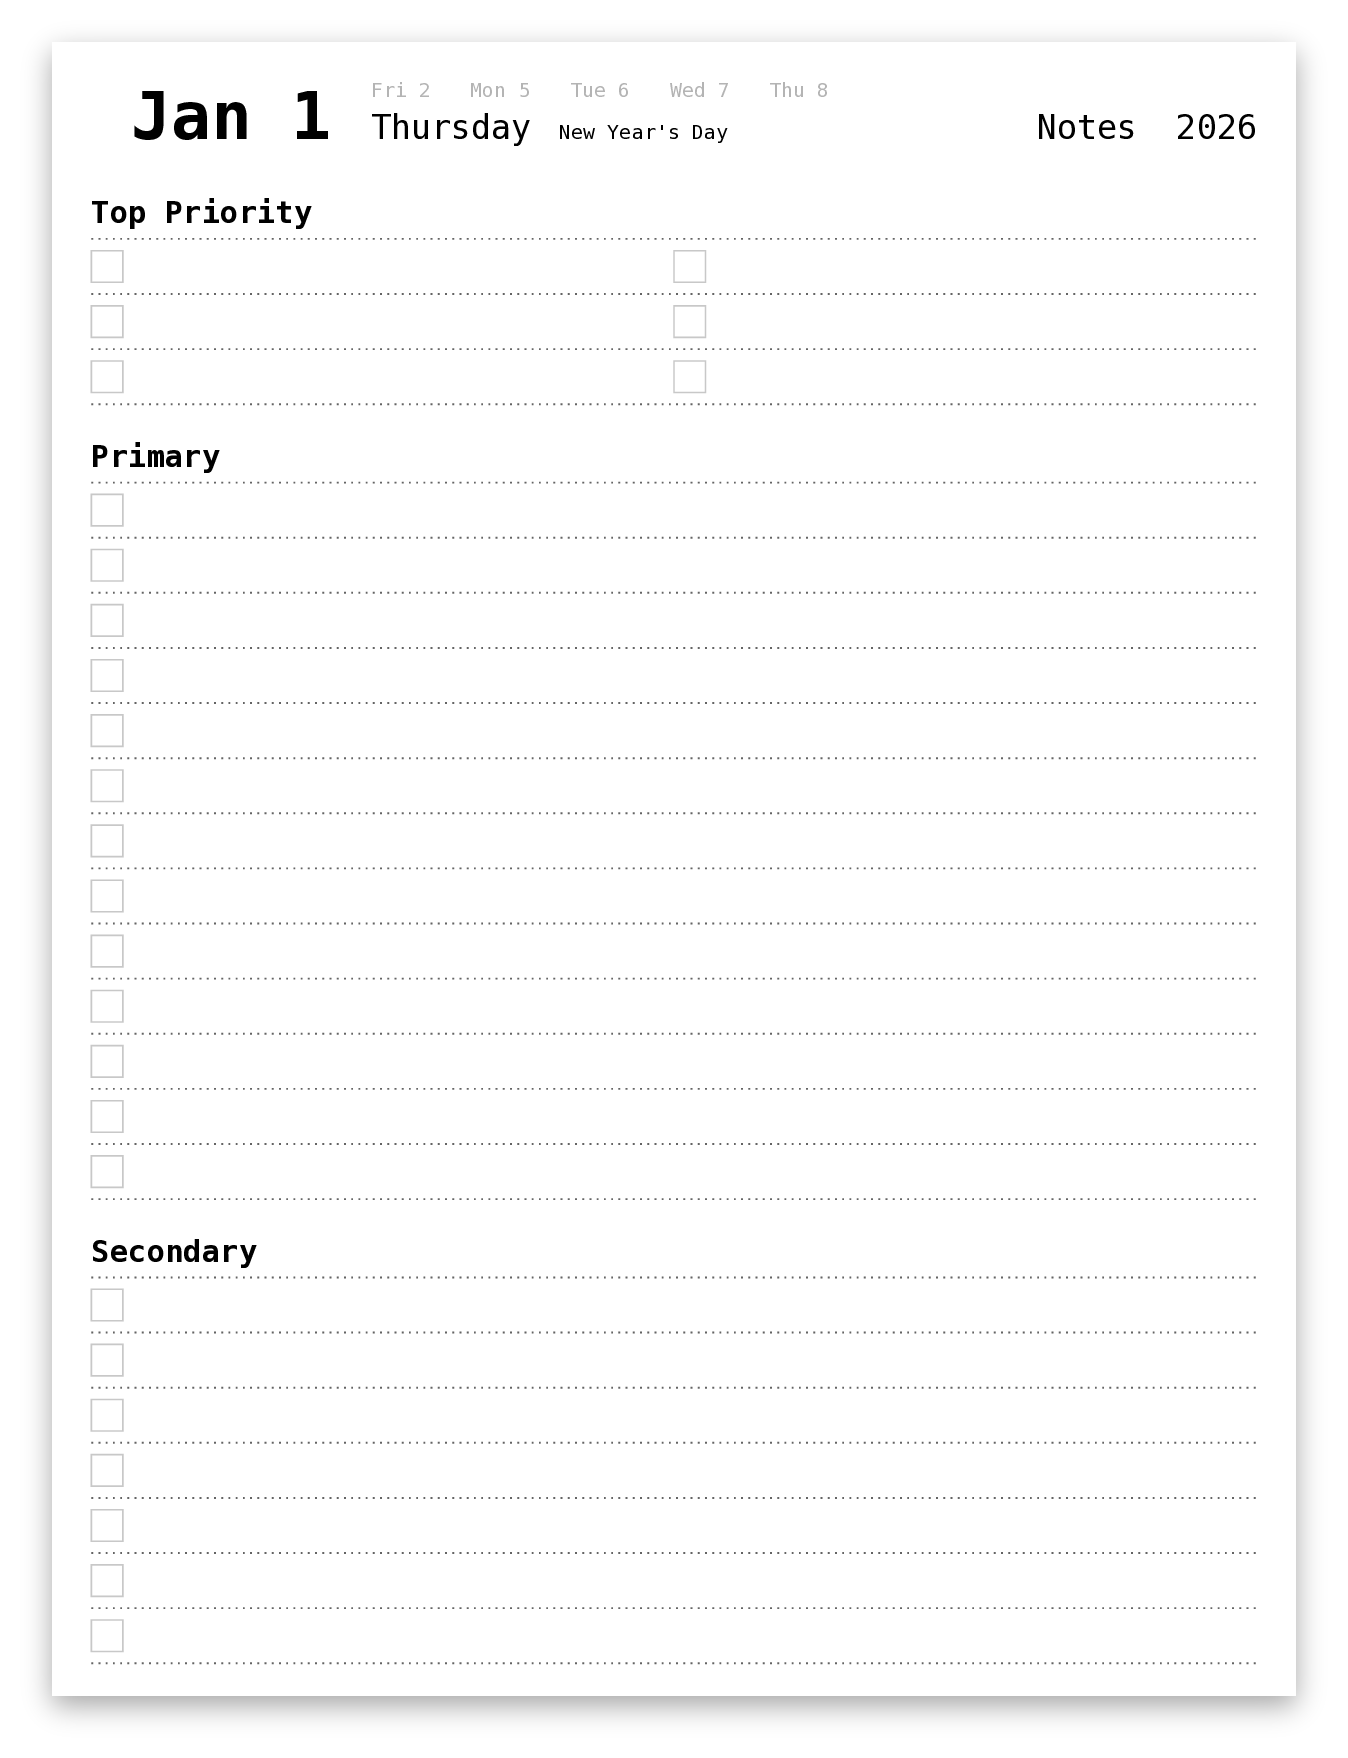
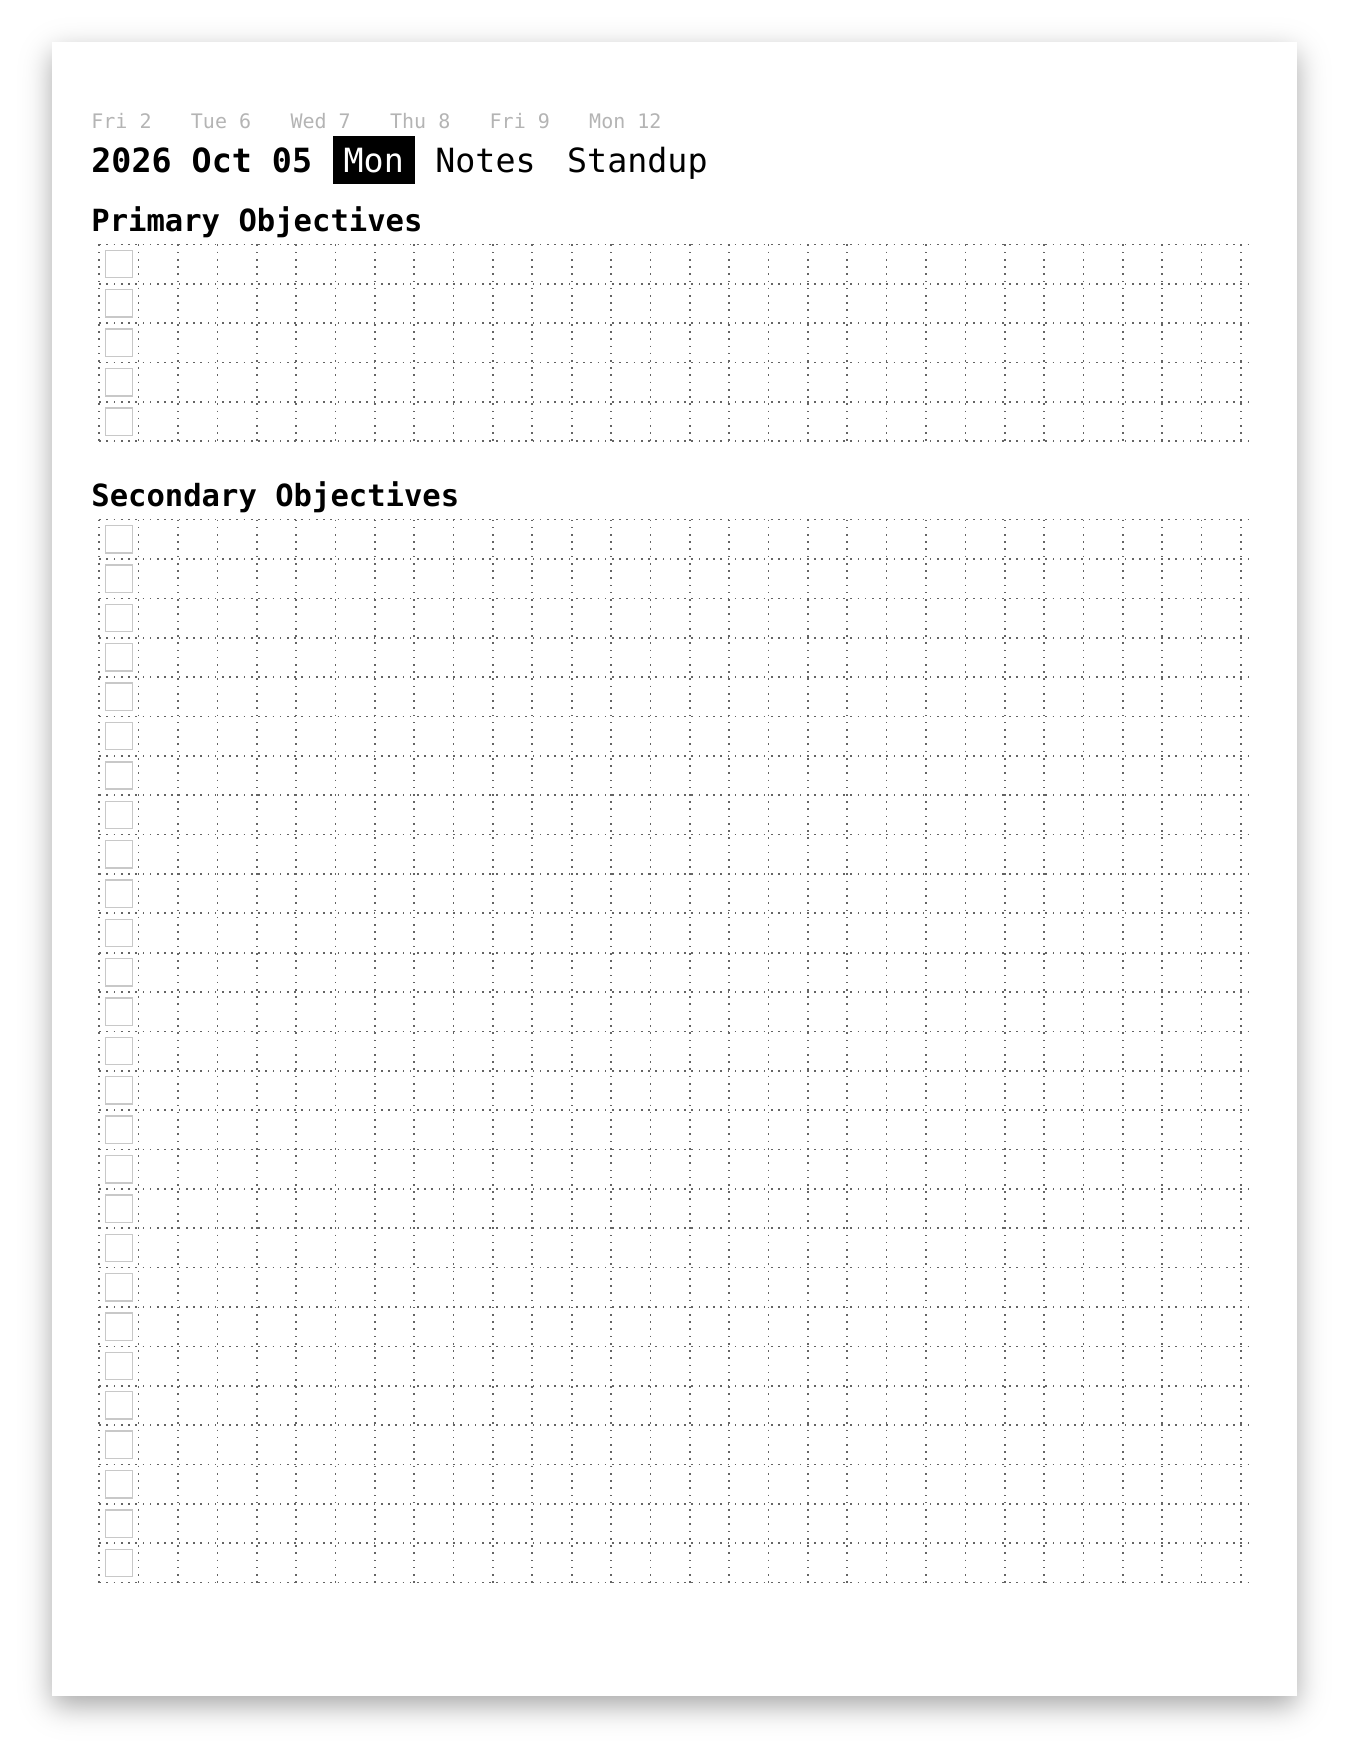
feat(planner): match grid sizes and refresh page previews
Use shared 5mm cells, five Primary rows and 27 Secondary rows, and smaller centered checkboxes. Refresh Day and Notes previews, add a Standup preview, and document the configurable layout.

Validation: just check passes, including 26 migration tests. Rendered previews inspected; negative controls confirm grid-size and checkbox regressions fail.

diff --git a/README.md b/README.md
@@ -21,18 +21,24 @@ Pages are grouped to make day-to-day navigation easy: all Daily Planner pages fo
 ### 2. Daily Planner Pages
 Structured for engineering workflows:
 
-- Primary Objectives: A compact grid for the day's main objectives
-- Secondary Objectives: A larger grid for additional objectives
+- Primary Objectives: Five grid rows for the day's main objectives
+- Secondary Objectives: Twenty-seven grid rows for additional objectives
 
-Each page includes:
-- Date and weekday
-- Navigation links to the same date's other page types and the annual calendar
-- Configurable line spacing for different writing preferences
+Both sections use 5mm square cells, matching Notes and Standup. Each row has one checkbox centered in its first cell. Checkbox size, row counts, section titles, and writing patterns are configurable.
+
+Each daily page includes:
+
+- A left-aligned `YYYY Mon DD Weekday Notes Standup` header, with a bold date and short weekday
+- A black box with white text identifying the active page type
+- A year link to the annual calendar; the month and day are plain text
+- Gray date links above the header, starting with the previous included date and preserving the current page type
+- Configurable grid size, line spacing, navigation appearance, and alignment
 
 Special dates (from CSV) can also be visually marked in the calendar view and shown beneath the weekday in the daily header.
 
 ### 3. Daily Notes Pages
-Meetings notes, etc.
+
+A full-page 5mm grid for meeting notes and other writing, beneath the shared daily navigation.
 
 ### 4. Daily Standup Pages
 
@@ -40,7 +46,7 @@ Standup pages are disabled by default. Enable them with `--standup` or set `enab
 
 When enabled, there is one standup page per included date, with a grid matching Daily Notes below the daily navigation. The Standup tab identifies the page. Links return to that date's Day and Notes pages or the annual calendar. By default, gray date links show the previous included date first, followed by upcoming dates within the planner year, and preserve the current view. Disabled Standup tabs remain visible as plain text unless `show_disabled_standup` is false.
 
-Customize line spacing, style, and color through `STANDUP` in `src/config.typ`. Set `title_show: true` to display a body heading, with configurable title text, font size, and gap. The line count adjusts to the remaining page height.
+Customize grid size, writing pattern, style, and color through `STANDUP` in `src/config.typ`. Set `title_show: true` to display a body heading, with configurable title text, font size, and gap. The writing area adjusts to the remaining page height.
 
 ## Download
 
@@ -64,12 +70,19 @@ Pre-built PDF planners are available for direct download:
 ![Calendar View / Weekends](preview/calendar-view--weekends.png)
 
 ### Day view
-![Day View](preview/day-view.png)
+
+![Day view with five Primary Objectives rows, twenty-seven Secondary Objectives rows, and centered checkboxes](preview/day-view.png)
 
 ### Day notes view
-![Day Notes View](preview/notes-view.png)
 
-### On device
+![Notes view with a 5mm grid and the Notes tab selected](preview/notes-view.png)
+
+### Standup view
+
+![Standup view with the same 5mm grid as Notes and no body heading](preview/standup-view.png)
+
+### On device (earlier layout)
+
 ![Device Calendar View](preview/photo-1.png)
 ![Device Day View](preview/photo-2.png)
 ![Device Notes View](preview/photo-3.png)
@@ -194,7 +207,7 @@ The following settings are available in `src/config.typ`:
 // Shared writing defaults for every page type and Day section.
 #let WRITING = (
   pattern: "grid",   // "lines", "grid", or "none"
-  spacing: 7mm,      // Line gap or square grid cell size
+  spacing: 5mm,      // Line gap or square grid cell size
   style: "dotted",  // "solid", "dotted", or "dashed"
   color: lines_color,
   thickness: 0.6pt,
@@ -211,23 +224,23 @@ The following settings are available in `src/config.typ`:
     // Number of checkboxes per row (default: 1). Grid checkboxes are centered
     // within cells; other patterns place them at the start of each column.
     columns: 1,
-    checkbox_size: 4mm,
+    checkbox_size: 4mm - 1.5pt,
     checkbox_color: 200
   ),
   (
     title_label: "Secondary Objectives",
     title_font_size: 11pt,
-    lines_count: 18,
+    lines_count: 27,
     writing: WRITING,
     checkbox_show: true,
-    checkbox_size: 4mm,
+    checkbox_size: 4mm - 1.5pt,
     checkbox_color: 200
   ),
 )
 
 // Daily notes configuration
 #let daily_notes = (
-  writing: (..WRITING, pattern: "grid", spacing: 5mm, thickness: 1pt),
+  writing: (..WRITING, pattern: "grid", thickness: 1pt),
 )
 
 // Optional standup heading and the same grid defaults as Notes.
@@ -243,7 +256,7 @@ The following settings are available in `src/config.typ`:
 
 Both navigation rows use `left`, `center`, or `right` alignment. `quick_jump_show: false` hides the entire gray row; `quick_jump_previous: false` hides only the back link. Tab labels and active styling apply to every daily view. Larger font sizes, labels, or padding may require increasing `height`, `quick_jump_height`, `navigation_gap`, or `day_label_gap` to preserve clearance.
 
-All writing areas use the same `writing` settings. Set `pattern` to `"grid"`, `"lines"`, or `"none"`; `spacing` controls square cell size or horizontal line spacing. Set `style`, `color`, and `thickness` to change the strokes. Each Day section can override the defaults with, for example, `writing: (..WRITING, pattern: "grid", spacing: 5mm)`. Standup inherits Notes defaults; use `writing: (..WRITING, pattern: "lines")` inside `STANDUP` for horizontal lines, or `writing: (..daily_notes.writing, spacing: 6mm)` for an independent grid size. `lines_count` controls each Day section's height in rows; checkbox settings remain per section.
+All writing areas use the same `writing` settings and share 5mm grid cells by default. Set `pattern` to `"grid"`, `"lines"`, or `"none"`; `spacing` controls square cell size or horizontal line spacing. Set `style`, `color`, and `thickness` to change the strokes. Each Day section can override the defaults with, for example, `writing: (..WRITING, pattern: "grid", spacing: 7mm)`. Standup inherits Notes defaults; use `writing: (..WRITING, pattern: "lines")` inside `STANDUP` for horizontal lines, or `writing: (..daily_notes.writing, spacing: 6mm)` for an independent grid size. `lines_count` controls each Day section's height in rows; checkbox settings remain per section.
 
 ## Building
 
@@ -298,7 +311,9 @@ Single builds write `build/planner-YEAR.pdf`. `--open` opens the PDF in the defa
 To render images, install [Poppler](https://poppler.freedesktop.org/) (`pdftoppm`) and [ImageMagick](https://imagemagick.org/) (`magick`, required for the default shadows):
 
 ```bash
-just preview build/planner-2026.pdf 1:calendar 2:day 263:notes
+# Include standups in the source PDF, then render all page types.
+just build 2026 --standup
+just preview build/planner-2026.pdf 1:calendar 2:day 263:notes 524:standup
 ```
 
 Images go in `preview/`. With no arguments, `just preview` uses the 2026 USA batch PDFs. Use `just preview --help` for page specs, resolution, and shadow settings. See [AGENTS.md](AGENTS.md) for validation commands.

diff --git a/src/AGENTS.md b/src/AGENTS.md
@@ -1,6 +1,6 @@
 ---
 created_on: 2026-09-29 20:19
-last_modified: 2026-10-02 15:24
+last_modified: 2026-10-02 17:19
 status: current
 ---
 
@@ -23,8 +23,9 @@ The templates generate an annual calendar followed by chronological blocks of da
 - Gray date links preserve the current view by default; `quick_jump_same_view: false` selects Day destinations. `quick_jump_previous` controls the first previous-date link; `quick_jump_count` counts only upcoming dates, so zero permits previous-only navigation. Skip excluded weekends and omit destinations outside the planner year.
 - Standups default off. `STANDUP.enabled` sets the default; explicit `standup` input overrides it. Both generation and links must use `STANDUP_ENABLED`.
 - Standup pages have no separate body heading by default; `STANDUP.title_show` enables the configurable title. The writing area fills the remaining height in either mode.
-- Reuse `lib/writing-pattern.typ` for Notes, Standup, and Day sections; never duplicate grid or horizontal-line rendering in views. All use `writing` settings for pattern, spacing, style, color, and thickness. Standup shares Notes grid defaults. Day defaults to two grids: Primary Objectives (5 rows), then Secondary Objectives (18 rows), each with one checkbox column. Center grid checkboxes within cells using the shared grid geometry. Keep the section list configurable, and keep checkboxes and section titles in `lib/sections.typ`.
+- Reuse `lib/writing-pattern.typ` for Notes, Standup, and Day sections; never duplicate grid or horizontal-line rendering in views. All use `writing` settings for pattern, spacing, style, color, and thickness. Day, Notes, and Standup inherit the same 5mm cell spacing from `WRITING`. Standup shares Notes grid defaults. Day defaults to two grids: Primary Objectives (5 rows), then Secondary Objectives (27 rows filling the remaining page), each with one checkbox column. Center grid checkboxes within cells using the shared grid geometry. Keep the section list configurable, and keep checkboxes and section titles in `lib/sections.typ`.
 - Keep the final horizontal grid boundary visible. Pass configured Day row counts through grid geometry to preserve the last row despite layout rounding. Reuse the native horizontal-line renderer for both lines and grids, and position grid strokes directly to avoid tile rounding and clipping at the bottom boundary.
+- Default Day checkboxes are `4mm - 1.5pt` squares: 2px smaller in each dimension using the 96-dpi reference pixel. Preserve their horizontal and vertical cell centers as size changes.
 - Preserve the default portrait toolbar clearance and gray navigator's vertical position. Both navigation rows have configurable horizontal alignment.
 - Daily headers default to `YYYY Mon DD Weekday Notes Standup`, with a bold date and short weekdays. Order, labels, date-component order and separator, month/weekday abbreviation, day padding, spacing, and inactive Standup visibility are configurable. Omit tokens from `navigation_order` to hide them.
 - Within the date, only `YYYY` may link to the annual calendar; `year_link` controls that link. Keep month/day text plain and the year link's hitbox clear of it.
